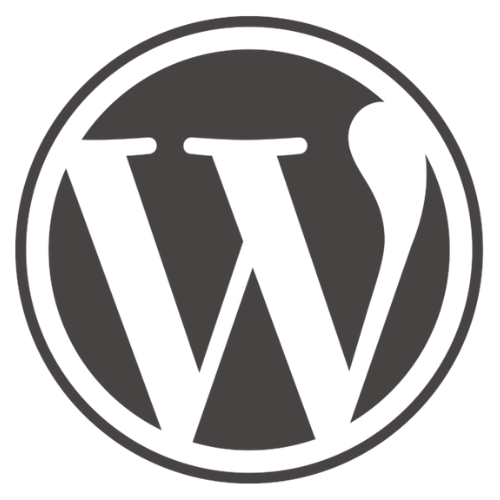
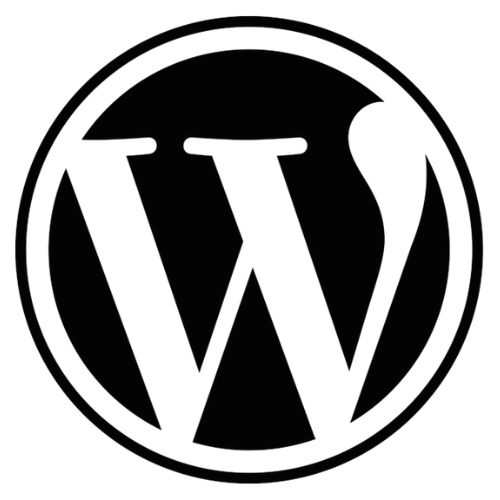
subiendo

diff --git a/latam/latam.css b/latam/latam.css
@@ -114,7 +114,7 @@ body {
 .dw {
   width: 30px;
   height: 30px;
-  background-color: gray;
+  background-color: #3d3935;
   border: none;
   border-radius: 50%; 
   position: relative;
@@ -174,7 +174,7 @@ body {
   width: calc(33% - 10px); /* Ancho ajustado para que quepan en una línea */
   margin-bottom: 20px;
   text-align: center;
-  background-color: #757575;
+  background-color: #3d3935;
   border-radius: 5px;
   color: #e2e1e1;
 }
@@ -230,8 +230,59 @@ body {
   opacity: 1;
 }
 .legend p {
-  margin: 2;
+  text-align: start;
+  padding: 2em;
+  margin-left: -1.5em;
   font-family: 'Trebuchet MS', 'Lucida Sans Unicode', 'Lucida Grande', 'Lucida Sans', Arial, sans-serif;
-  color: black;
+  color: rgb(255, 255, 255);
   z-index: 9999;
 }
+
+
+
+ul {
+  background-color: rgba(0, 0, 0, 0.4);
+  border-bottom: 1px solid rgba(255, 255, 255, 0.25);
+  box-shadow: 0 0 8px rgba(0, 0, 0, 0.4) inset;
+  border-radius: 16px;
+  margin: 0;
+  padding: 0 30px;
+}
+
+ul > li > a {
+  display: inline-block;
+  letter-spacing: -1px;
+  text-decoration: none;
+  text-transform: uppercase;
+  color: #fff;
+}
+/* The effect 
+-------------------------*/
+
+ul {
+  display: inline-block;
+  text-align: center;
+  font-size: 1.3em;
+  height: 50px;
+  line-height: 50px;
+  overflow: hidden;
+}
+
+ul > li {
+  float: left;
+  height: 100%;
+  list-style: none;
+  margin: 0 30px;
+}
+
+ul > li > a {
+  text-shadow: 0 -50px #cdf745;
+  padding-top: 50px;
+  margin-top: -50px;
+  transition: 0.25s cubic-bezier(0, 0, 0.5, 1.4);
+}
+
+ul > li > a:hover {
+  margin-top: 0;
+}
+

diff --git a/latam/latam.html b/latam/latam.html
@@ -21,7 +21,10 @@
             <a href="#contact" data-text="Contáctame">Contáctame</a>
         </div>
         <div class="dw">
-            <a href="#projects">&gt;</a>
+            <ul>
+                <li><a href="#">&gt;</a></li>
+            </ul>
+            <!-- <a href="#projects">&gt;</a> !-->
         </div>   
     </div>
 
